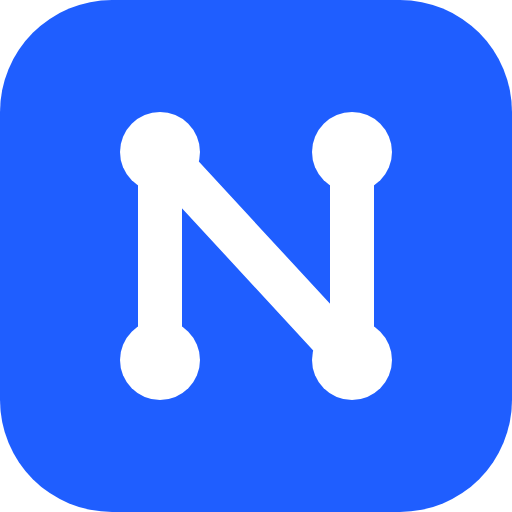
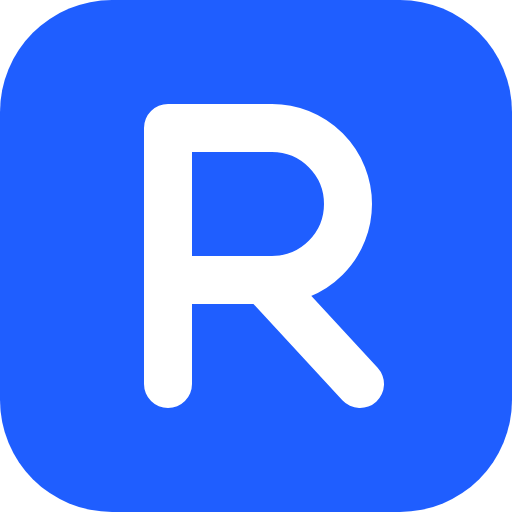
Rename the app from Nexus to Rift
Default APP_NAME, logo letter (taken from the name), page titles, sign-in pages,
two-step login label, emails, new R favicon and app icons, README and settings
examples, new backups (rift-backup-..., rift.db inside) and data exports.
Kept for continuity: the database file name, the Render service/disk names and
the backup encryption marker; older nexus-/letwise- backups still list and
restore.

Claude-Session: https://claude.ai/code/session_01DRvdRx2deFYH4gJZzGVxxQ

Changed region(s): [[0.2188, 0.1875, 0.7812, 0.8125], [0.375, 0.6562, 0.4062, 0.75]]

diff --git a/test/app.test.js b/test/app.test.js
@@ -8,7 +8,7 @@ const path = require('node:path');
 const { openDatabase } = require('../src/db');
 const { createApp, loadConfig, ensureAdmin } = require('../src/server');
 
-const tmp = fs.mkdtempSync(path.join(os.tmpdir(), 'nexus-test-'));
+const tmp = fs.mkdtempSync(path.join(os.tmpdir(), 'rift-test-'));
 const config = {
   ...loadConfig({}),
   dbFile: ':memory:',
@@ -477,7 +477,7 @@ test('backups: admin creates, downloads, prunes; archive restores', async () => 
     assert.match(decodeURIComponent(r.location), /Backup created/);
   }
   const page = await admin.get('/admin/backups');
-  const names = [...page.text.matchAll(/<code>(nexus-backup-[^<]+)<\/code>/g)].map((m) => m[1]);
+  const names = [...page.text.matchAll(/<code>(rift-backup-[^<]+)<\/code>/g)].map((m) => m[1]);
   assert.equal(names.length, 3, 'old backups pruned to BACKUP_KEEP');
 
   const dl = await fetch(`${base}/admin/backups/${names[0]}`, { headers: { cookie: admin.cookie } });
@@ -488,7 +488,7 @@ test('backups: admin creates, downloads, prunes; archive restores', async () => 
   const file = path.join(config.backupDir, names[0]);
   const listing = execFileSync('tar', ['-tzf', file]).toString();
   assert.match(listing, /manifest\.json/);
-  assert.match(listing, /nexus\.db/);
+  assert.match(listing, /rift\.db/);
   assert.match(listing, /uploads\/\d+\/[0-9a-f]{32}\.pdf/);
 
   // Restore into a fresh data directory and check the data is there.
@@ -512,7 +512,7 @@ test('create account with a username and password (email optional)', async () =>
   assert.equal(r.status, 302, r.text);
   assert.match(r.location, /^\/app/, 'signed in straight away');
   r = await c.get(r.location);
-  assert.match(r.text, /Welcome to Nexus/);
+  assert.match(r.text, /Welcome to Rift/);
   assert.match((await c.get('/app/account')).text, /<code>harbour\.lets<\/code>/);
   const u = db.prepare("SELECT * FROM users WHERE username = 'harbour.lets'").get();
   assert.equal(u.email, null);
@@ -678,7 +678,7 @@ test('account details: companies can only view them; the admin edits them', asyn
   r = await c.get('/app/account');
   assert.equal(r.status, 200);
   assert.match(r.text, /<code>myaccount<\/code>/);
-  assert.match(r.text, /contact your Nexus administrator/);
+  assert.match(r.text, /contact your Rift administrator/);
   assert.doesNotMatch(r.text, /<form method="post" action="\/app\/account"/);
 
   // The company can't change its own details.
@@ -969,7 +969,7 @@ test('encrypted backups: unreadable without the password, restorable with it', a
   assert.ok(!fs.existsSync(path.join(tmp, 'nope.tar.gz')));
   const plain = path.join(tmp, 'ok.tar.gz');
   await decryptFile(b.file, plain, 'correct horse battery staple');
-  assert.match(execFileSync('tar', ['-tzf', plain]).toString(), /nexus\.db/);
+  assert.match(execFileSync('tar', ['-tzf', plain]).toString(), /rift\.db/);
 
   // The restore script decrypts with BACKUP_PASSWORD.
   const target = path.join(tmp, 'restored-enc');
@@ -1328,7 +1328,7 @@ test('mailer: needs a sender and a provider, and refuses bad addresses', async (
   const { createMailer, isEmail } = require('../src/mailer');
   assert.equal(createMailer({}).enabled, false);
   assert.equal(createMailer({ resendApiKey: 'k' }).enabled, false, 'no EMAIL_FROM');
-  assert.equal(createMailer({ resendApiKey: 'k', emailFrom: 'Nexus <statements@example.com>' }).provider, 'Resend');
+  assert.equal(createMailer({ resendApiKey: 'k', emailFrom: 'Rift <statements@example.com>' }).provider, 'Resend');
   assert.equal(createMailer({ smtpHost: 'smtp.example.com', emailFrom: 'statements@example.com' }).provider, 'SMTP');
   assert.ok(isEmail('a@b.co'));
   for (const bad of ['', 'a@b', 'a b@c.com', 'a@b.com, c@d.com', 'x@y.com\r\nBcc: z@z.com']) assert.ok(!isEmail(bad), bad);
@@ -1972,4 +1972,16 @@ test('contractor invoices: unpaid and paid boxes for the chosen month either sid
   const labels = [...r.text.matchAll(/<span class="label">([^<]+)<\/span><span class="value">([^<]+)</g)].map((m) => `${m[1]}=${m[2]}`);
   assert.deepEqual(labels, ['Unpaid · August 2026=£40.00', 'Unpaid · all months=£47.00', 'Overdue · all months=£0.00', 'Paid · August 2026=£100.00']);
   assert.doesNotMatch((await c.get('/app/invoices?month=all')).text, /Paid · /, 'no month boxes when showing all months');
+});
+
+test('the app is called Rift everywhere people see it', async () => {
+  const login = (await new Client().get('/login')).text;
+  assert.match(login, /<title>Sign in · Rift<\/title>/);
+  assert.match(login, /<span class="logo">R<\/span>Rift/);
+  assert.doesNotMatch(login, /Nexus/);
+  const c = await registerAndLogin('rift-name@example.com', 'Rift Name Lets');
+  const home = (await c.get('/app')).text;
+  assert.match(home, /<span class="logo">R<\/span>/);
+  assert.doesNotMatch(home, /Nexus/);
+  assert.match(fs.readFileSync(path.join(__dirname, '..', 'README.md'), 'utf8'), /^# Rift/);
 });

diff --git a/public/app.js b/public/app.js
@@ -53,9 +53,9 @@ document.addEventListener('submit', (e) => {
 // Create forms ([data-draft]) keep a draft in this browser until they're submitted.
 // Everything typed is kept: edit forms save to the server, and every form also keeps a copy
 // in this browser until it's saved, so nothing is lost if the session ends or the page closes.
-// window.nexusFlush() saves everything right now (used before signing out for inactivity).
+// window.riftFlush() saves everything right now (used before signing out for inactivity).
 const flushers = [];
-window.nexusFlush = () => Promise.all(flushers.map((f) => Promise.resolve().then(f).catch(() => {})));
+window.riftFlush = () => Promise.all(flushers.map((f) => Promise.resolve().then(f).catch(() => {})));
 const DRAFT_DAYS = 7;
 
 (() => {
@@ -180,7 +180,7 @@ const DRAFT_DAYS = 7;
           dirty = true;
           keepBackup();
           setStatus(form, 'Signed out: your changes are kept and will save after you sign in again.', 'err');
-          if (res.status === 401 && window.nexusSignedOut) window.nexusSignedOut();
+          if (res.status === 401 && window.riftSignedOut) window.riftSignedOut();
         } else {
           dirty = true;
           setStatus(form, 'Not saved: will retry…', 'err');
@@ -402,7 +402,7 @@ document.addEventListener('click', (e) => {
   const LIMIT = minutes * 60000;
   const WARN = Math.min(5 * 60000, LIMIT / 2);
   const PING_EVERY = 60000;
-  const KEY = 'nexus:last-active';
+  const KEY = 'rift:last-active';
   let store = null;
   try { store = window.localStorage; } catch { store = null; }
 
@@ -422,7 +422,7 @@ document.addEventListener('click', (e) => {
     if (signingOut) return;
     signingOut = true;
     showWarning('Signing you out… saving your work first.', false);
-    await Promise.race([window.nexusFlush(), new Promise((r) => setTimeout(r, 8000))]);
+    await Promise.race([window.riftFlush(), new Promise((r) => setTimeout(r, 8000))]);
     const csrf = document.querySelector('input[name="_csrf"]');
     const body = new URLSearchParams({ _csrf: csrf ? csrf.value : '', reason: 'idle', next: location.pathname + location.search });
     try { await fetch('/logout', { method: 'POST', body, credentials: 'same-origin', redirect: 'manual' }); } catch { /* signed out on the server anyway */ }
@@ -430,10 +430,10 @@ document.addEventListener('click', (e) => {
   }
 
   // The server ended the session already (e.g. the computer was asleep): keep the work, go to sign in.
-  window.nexusSignedOut = async () => {
+  window.riftSignedOut = async () => {
     if (signingOut) return;
     signingOut = true;
-    await Promise.race([window.nexusFlush(), new Promise((r) => setTimeout(r, 3000))]);
+    await Promise.race([window.riftFlush(), new Promise((r) => setTimeout(r, 3000))]);
     goToSignIn(true);
   };
 
@@ -457,7 +457,7 @@ document.addEventListener('click', (e) => {
     lastPing = Date.now();
     try {
       const res = await fetch('/session/ping', { credentials: 'same-origin', headers: { Accept: 'application/json' }, cache: 'no-store' });
-      if (res.status === 401) window.nexusSignedOut();
+      if (res.status === 401) window.riftSignedOut();
     } catch { /* offline: try again later */ }
   }
 

diff --git a/src/backup.js b/src/backup.js
@@ -10,10 +10,12 @@ const { once } = require('node:events');
 const crypto = require('node:crypto');
 const { pipeline } = require('node:stream/promises');
 
-const NAME_RE = /^(?:nexus|letwise)-backup-\d{4}-\d{2}-\d{2}T\d{2}-\d{2}-\d{2}Z(-\d+)?\.tar\.gz(\.enc)?$/;
+// Older backups were called nexus-… (and before that letwise-…); they still list and restore.
+const NAME_RE = /^(?:rift|nexus|letwise)-backup-\d{4}-\d{2}-\d{2}T\d{2}-\d{2}-\d{2}Z(-\d+)?\.tar\.gz(\.enc)?$/;
 
 // ---- encryption: AES-256-GCM with a key made from BACKUP_PASSWORD (scrypt) ----
 // File layout: "NEXUSENC1" | salt (16) | iv (12) | encrypted .tar.gz | auth tag (16)
+// (The marker keeps its original name so backups made before the rename to Rift still open.)
 const MAGIC = Buffer.from('NEXUSENC1');
 const SCRYPT = { N: 2 ** 15, r: 8, p: 1, maxmem: 64 * 1024 * 1024 };
 
@@ -51,7 +53,7 @@ async function decryptFile(src, dest, password) {
     fs.readSync(fd, header, 0, headerLen, 0);
     fs.readSync(fd, tag, 0, 16, size - 16);
   } finally { fs.closeSync(fd); }
-  if (!header.subarray(0, MAGIC.length).equals(MAGIC)) throw new Error('This is not an encrypted Nexus backup.');
+  if (!header.subarray(0, MAGIC.length).equals(MAGIC)) throw new Error('This is not an encrypted Rift backup.');
   const salt = header.subarray(MAGIC.length, MAGIC.length + 16);
   const iv = header.subarray(MAGIC.length + 16, headerLen);
   const decipher = crypto.createDecipheriv('aes-256-gcm', backupKey(password, salt), iv);
@@ -133,8 +135,8 @@ async function createBackup(db, config, { reason = 'manual' } = {}) {
   fs.mkdirSync(config.backupDir, { recursive: true, mode: 0o700 });
   // With BACKUP_PASSWORD set, backups are encrypted and end in .tar.gz.enc.
   const ext = config.backupPassword ? '.tar.gz.enc' : '.tar.gz';
-  let name = `nexus-backup-${stamp()}${ext}`;
-  for (let i = 1; fs.existsSync(path.join(config.backupDir, name)); i++) name = `nexus-backup-${stamp()}-${i}${ext}`;
+  let name = `rift-backup-${stamp()}${ext}`;
+  for (let i = 1; fs.existsSync(path.join(config.backupDir, name)); i++) name = `rift-backup-${stamp()}-${i}${ext}`;
   const file = path.join(config.backupDir, name);
   const plainFile = config.backupPassword ? path.join(config.backupDir, `.plain-${process.pid}-${Date.now()}.tar.gz`) : file;
 
@@ -163,7 +165,7 @@ async function createBackup(db, config, { reason = 'manual' } = {}) {
     manifest.encrypted = !!config.backupPassword;
     await writeTarGz(plainFile, [
       { name: 'manifest.json', data: Buffer.from(JSON.stringify(manifest, null, 2)) },
-      { name: 'nexus.db', file: tmpDb },
+      { name: 'rift.db', file: tmpDb },
       ...uploads.map((u) => ({ name: `uploads/${u.rel}`, file: u.full, mtime: fs.statSync(u.full).mtimeMs })),
     ]);
     if (config.backupPassword) await encryptFile(plainFile, file, config.backupPassword);

diff --git a/src/routes/admin.js b/src/routes/admin.js
@@ -12,7 +12,7 @@ const tabs = require('../tabs');
 const { USERNAME_RE, LOGIN_NAME_RE, signInNameFrom } = require('../db');
 
 const EMAIL_RE = /^[^\s@]+@[^\s@]+\.[^\s@]+$/;
-const RESERVED_USERNAMES = new Set(['admin', 'administrator', 'root', 'support', 'letwise', 'nexus', 'system']);
+const RESERVED_USERNAMES = new Set(['admin', 'administrator', 'root', 'support', 'letwise', 'nexus', 'rift', 'system']);
 const MIN_PASSWORD = 8;
 
 // Owner-only area: every user of the software, their usage and login history.
@@ -277,7 +277,7 @@ module.exports = function adminRoutes(db, config) {
     for (const t of tables) data[t] = db.prepare(`SELECT * FROM ${t} WHERE account_id = ? ORDER BY id`).all(u.id);
     const safeName = String(u.username).replace(/[^A-Za-z0-9._-]/g, '_');
     res.setHeader('Content-Type', 'application/json; charset=utf-8');
-    res.setHeader('Content-Disposition', `attachment; filename="nexus-${safeName}-${fmt.today()}.json"`);
+    res.setHeader('Content-Disposition', `attachment; filename="rift-${safeName}-${fmt.today()}.json"`);
     res.send(JSON.stringify(data, null, 2));
   });
 
@@ -390,7 +390,7 @@ module.exports = function adminRoutes(db, config) {
     const u = me(req);
     if (u.totp_enabled || !u.totp_secret) return res.redirect('/admin/security');
     const step = totp.verify(u.totp_secret, req.body.code, -1);
-    if (step === null) return res.redirect('/admin/security?error=' + encodeURIComponent("That code didn't match. Check the app shows Nexus and try the newest code.") + '#setup');
+    if (step === null) return res.redirect('/admin/security?error=' + encodeURIComponent(`That code didn't match. Check the app shows ${config.appName} and try the newest code.`) + '#setup');
     const { codes, hashes } = totp.makeRecoveryCodes();
     db.prepare('UPDATE users SET totp_enabled = 1, totp_last_step = ?, totp_recovery = ? WHERE id = ?').run(step, JSON.stringify(hashes), u.id);
     // Sign out any other devices so they have to use the code next time.

diff --git a/scripts/restore-backup.js b/scripts/restore-backup.js
@@ -1,6 +1,6 @@
 'use strict';
 
-// Usage (with the server stopped): npm run restore-backup -- path/to/nexus-backup-....tar.gz[.enc]
+// Usage (with the server stopped): npm run restore-backup -- path/to/rift-backup-....tar.gz[.enc]
 // Encrypted backups (.enc) need the backup password: set BACKUP_PASSWORD, or you'll be asked.
 // The current database and uploads are moved to data/pre-restore-<time>/ first, never deleted.
 
@@ -20,7 +20,7 @@ if (!archive || !fs.existsSync(archive)) {
 }
 
 const config = loadConfig();
-const work = fs.mkdtempSync(path.join(os.tmpdir(), 'nexus-restore-'));
+const work = fs.mkdtempSync(path.join(os.tmpdir(), 'rift-restore-'));
 (async () => {
 try {
   let tarFile = path.resolve(archive);
@@ -36,9 +36,9 @@ try {
     tarFile = plain;
   }
   execFileSync('tar', ['-xzf', tarFile, '-C', work], { stdio: 'inherit' });
-  // Backups made before the rename to Nexus call the database letwise.db.
-  const restoredDb = ['nexus.db', 'letwise.db'].map((f) => path.join(work, f)).find((f) => fs.existsSync(f));
-  if (!restoredDb) throw new Error('This file does not look like a Nexus backup (no database inside).');
+  // Older backups call the database nexus.db (before the rename to Rift) or letwise.db.
+  const restoredDb = ['rift.db', 'nexus.db', 'letwise.db'].map((f) => path.join(work, f)).find((f) => fs.existsSync(f));
+  if (!restoredDb) throw new Error('This file does not look like a Rift backup (no database inside).');
 
   const check = new DatabaseSync(restoredDb, { readOnly: true });
   const ok = check.prepare('PRAGMA integrity_check').get();

diff --git a/src/server.js b/src/server.js
@@ -16,6 +16,7 @@ function loadConfig(env = process.env) {
   const production = env.NODE_ENV === 'production';
   return {
     port: Number(env.PORT) || 3000,
+    // The file keeps its original name (from before the rename to Rift) so existing data carries on.
     dbFile: env.DATABASE_FILE || path.join(__dirname, '..', 'data', 'nexus.db'),
     uploadDir: env.UPLOAD_DIR || path.join(__dirname, '..', 'data', 'uploads'),
     backupDir: env.BACKUP_DIR || path.join(__dirname, '..', 'data', 'backups'),
@@ -25,7 +26,7 @@ function loadConfig(env = process.env) {
     backupKeep: Math.max(1, Number(env.BACKUP_KEEP) || 14),
     backupIntervalHours: Math.max(1, Number(env.BACKUP_INTERVAL_HOURS) || 24),
     autoBackups: env.AUTO_BACKUPS !== 'false',
-    appName: env.APP_NAME || 'Nexus',
+    appName: env.APP_NAME || 'Rift',
     adminEmail: (env.ADMIN_EMAIL || '').trim().toLowerCase(),
     adminPassword: env.ADMIN_PASSWORD || '',
     adminPasswordReset: env.ADMIN_PASSWORD_RESET === 'true',

diff --git a/src/routes/auth.js b/src/routes/auth.js
@@ -148,7 +148,7 @@ module.exports = function authRoutes(db, config) {
     res.render('register', { title: 'Create account', errors: {}, values: {} });
   });
 
-  const RESERVED_USERNAMES = new Set(['admin', 'administrator', 'root', 'support', 'letwise', 'nexus', 'system']);
+  const RESERVED_USERNAMES = new Set(['admin', 'administrator', 'root', 'support', 'letwise', 'nexus', 'rift', 'system']);
 
   router.post('/register', (req, res) => {
     if (!config.allowRegistration) return res.status(403).render('error', { title: 'Registration closed', message: 'New sign-ups are currently closed.' });

diff --git a/README.md b/README.md
@@ -1,4 +1,4 @@
-# Nexus
+# Rift
 
 Lettings, property management and client-accounting software for UK letting agents, similar in scope to CFP WinMan. Each agency that signs up gets its own private workspace. You, the owner, get an admin panel that shows everyone using the software.
 
@@ -96,7 +96,7 @@ Backups are:
 **To restore**, stop the server, then run:
 
 ```bash
-npm run restore-backup -- data/backups/nexus-backup-2026-09-24T02-00-00Z.tar.gz.enc
+npm run restore-backup -- data/backups/rift-backup-2026-09-24T02-00-00Z.tar.gz.enc
 ```
 
 The current data is moved to `data/pre-restore-…/` first, so a restore never deletes anything. The backup is also a normal tar archive (`tar -xzf file.tar.gz`), so you can open it without this app.
@@ -107,7 +107,7 @@ The current data is moved to `data/pre-restore-…/` first, so a restore never d
 1. Sign in at https://render.com with your GitHub account.
 2. Open https://render.com/deploy?repo=https://github.com/TPAS2/Eurostars (or **New → Blueprint** and pick this repo).
 3. Fill in `ADMIN_PASSWORD` (and optionally `ADMIN_EMAIL`, and `ANTHROPIC_API_KEY` for AI statement summaries), then click **Apply**. The admin username is `TPAS2` (change `ADMIN_USERNAME` in `render.yaml` to use another).
-4. When the deploy finishes, open the `https://nexus-….onrender.com` address it shows. You can add your own domain under **Settings → Custom Domains**.
+4. When the deploy finishes, open the `https://….onrender.com` address it shows. You can add your own domain under **Settings → Custom Domains**.
 
 It uses Render's Starter plan with a 1 GB disk (about $7.25 a month), because the free plan has no permanent disk and would lose the data on every restart.
 
